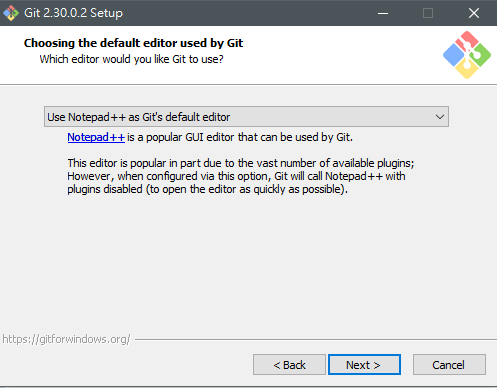
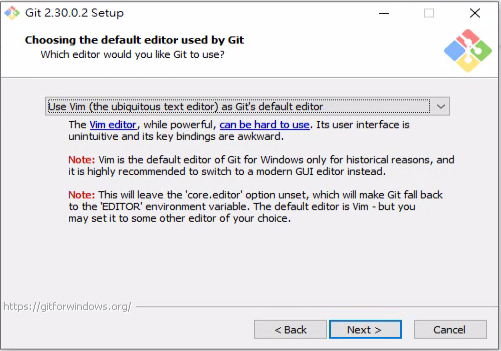
...

diff --git a/study-coding/md/git-install-win10.md b/study-coding/md/git-install-win10.md
@@ -22,7 +22,7 @@
 ![](images/git-install/git-install-006.png)
 4. 按 [Next]
 ![](images/git-install/git-install-007.png)
-5. 將選單項目設為 Use Notepad++ as Git's default editor 再按 [Next]
+5. 按 [Next]
 ![](images/git-install/git-install-008.png)
 6. 點選 Override the default branch name for new repositories 並將文字框內容改成 master 然後再按 [Next]
 ![](images/git-install/git-install-009.png)
